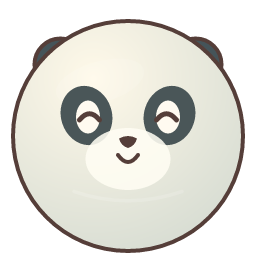
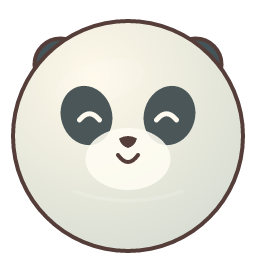
Refine panda eyelids and add paired visual performance probe [skip ci]

Changed region(s): [[0.5938, 0.375, 0.7188, 0.5312], [0.2812, 0.375, 0.4062, 0.5312]]

diff --git a/MergeAnimals/tools/generate_expression_vectors.py b/MergeAnimals/tools/generate_expression_vectors.py
@@ -20,6 +20,11 @@ for directory in sorted(p for p in root.iterdir() if p.is_dir()):
     for name, eyes in eye_variants.items():
         result = normal.replace(open_eyes, eyes)
         if name != 'surprise': result = result.replace(highlights, '')
+        # Panda's dark mask needs a light closed lid; remove its white sclera
+        # so a closed eye does not look like an open white circle.
+        if directory.name == 'panda' and name in ('blink', 'happy'):
+            result = result.replace('<ellipse cx="176" cy="234" rx="24" ry="33" fill="#fffaf0"/><ellipse cx="336" cy="234" rx="24" ry="33" fill="#fffaf0"/>', '')
+            result = result.replace(eyes, eyes.replace('#553e39', '#fffaf0'))
         if name == 'happy':
             if mouth in result:
                 result = result.replace(mouth, '<path d="M236 310 Q256 338 276 310" fill="none" stroke="#553e39" stroke-width="8" stroke-linecap="round"/>')
